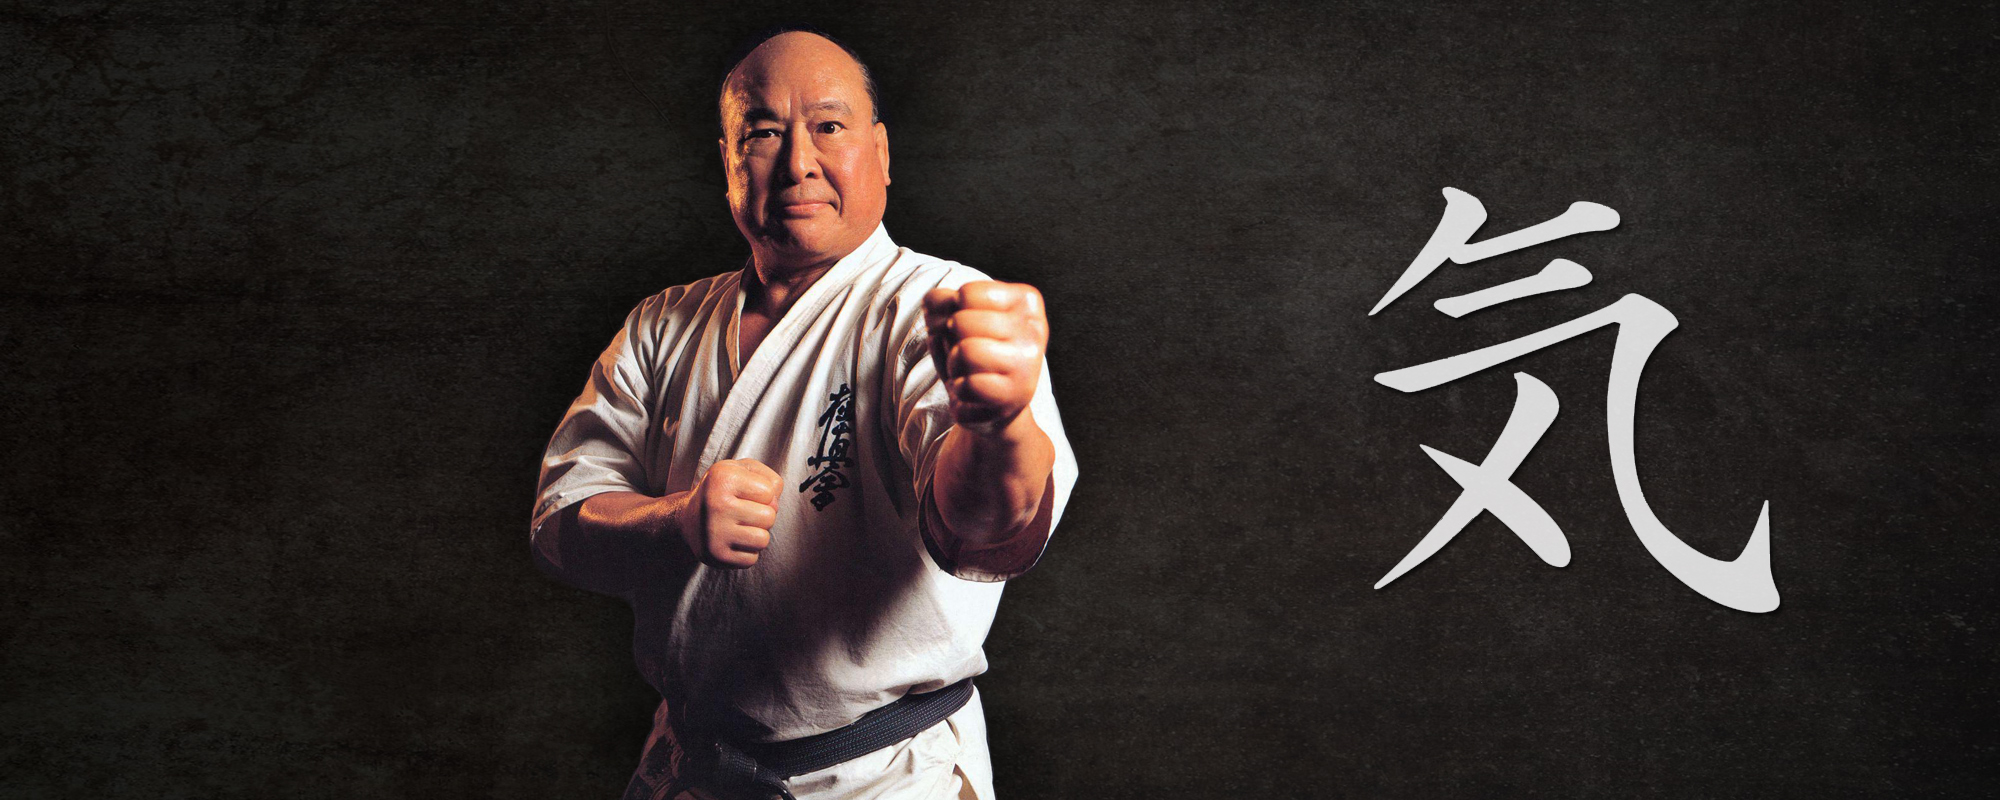
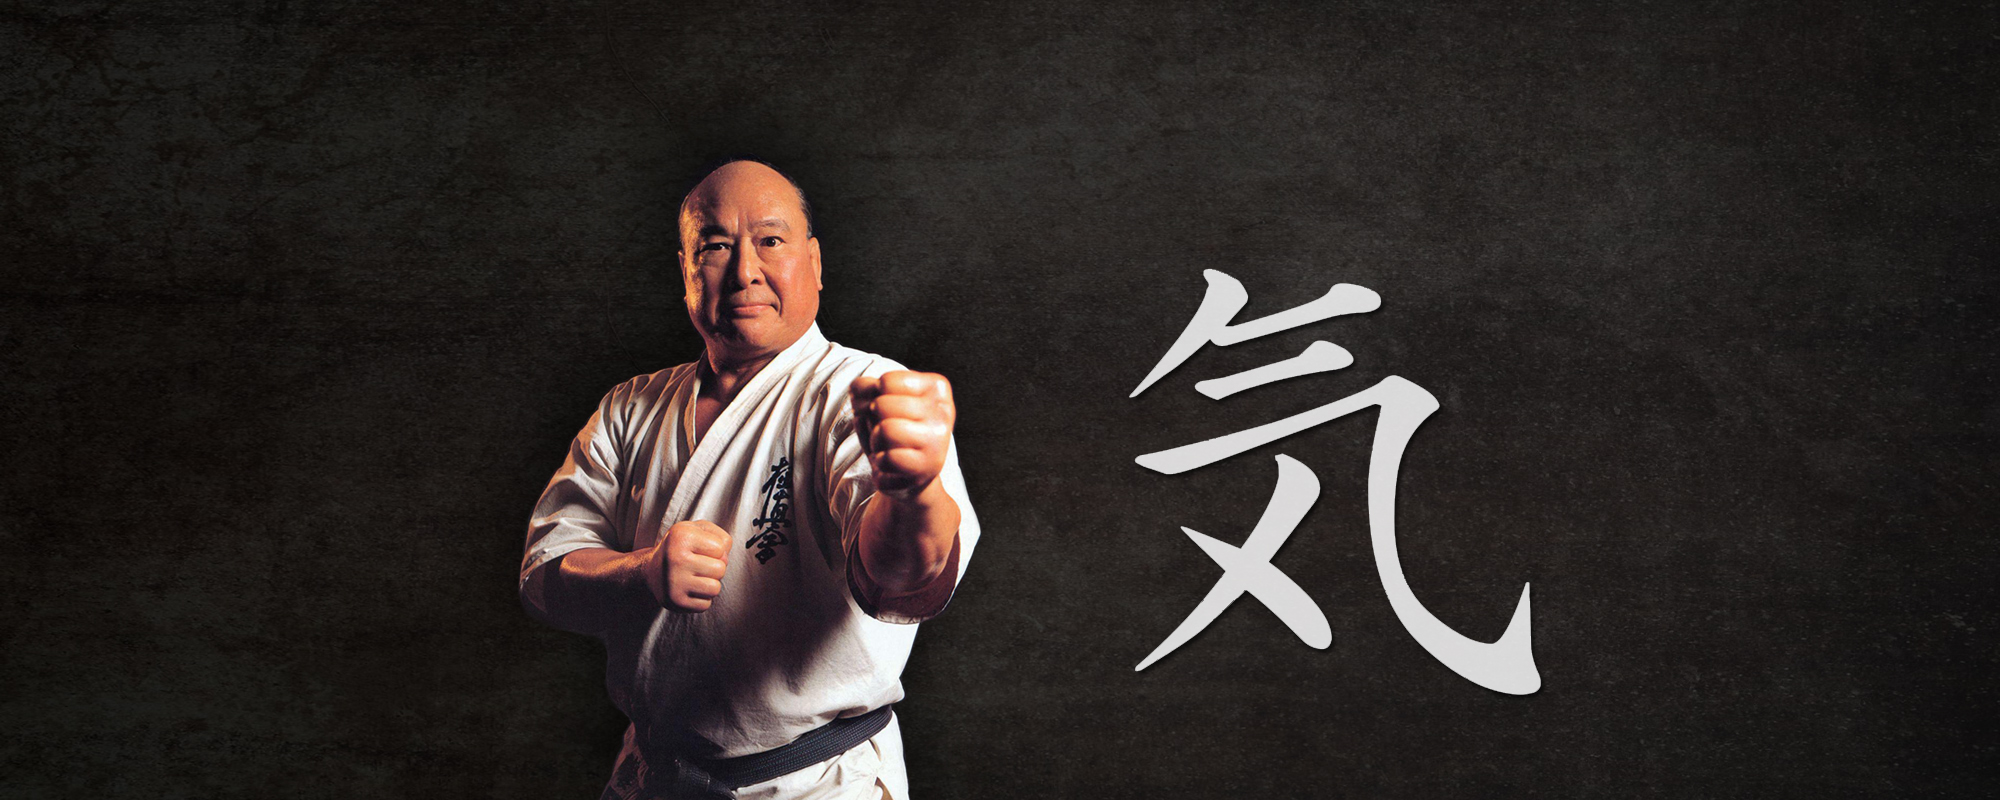
kleine stijlveranderingen

Changed region(s): [[0.248, 0.0312, 0.899, 1.0]]

diff --git a/static/styles/style_middle.css b/static/styles/style_middle.css
@@ -78,7 +78,7 @@ body {
 .h5 {
     color: #DBDBDB;
     font-size:35px;
-    font-weight: 200;
+    font-weight: 300;
     font-family: "Lato", sans-serif;
     text-align:center;
 }
@@ -179,7 +179,7 @@ body {
     position:relative;
     padding: 5px 10px 15px;
     background: rgba(0, 0, 0, 0.6);
-    top:275px;
+    top:230px;
     margin:0 auto;
 }
 
@@ -187,7 +187,7 @@ body {
     position:relative;
     padding: 4px 10px 12px;
     background: rgba(0, 0, 0, 0.6);
-    top:300px;
+    top:250px;
     margin:0 auto;
 }
 
@@ -239,7 +239,7 @@ body {
 #november-banner{background-image:url(../layout/trainingskalender/november-banner.jpg);}
 #december-banner{background-image:url(../layout/trainingskalender/december-banner.jpg);}
 
-#geschiedenis-bovenbanner{background-image:url(../layout/karatedo_kanji.jpg);}
+#geschiedenis-bovenbanner{background-image:url(../layout/karatedo_kanji2.jpg);}
 #geschiedenis-tussenbanner{background-image:url(../layout/oyama_sosai2.jpg);}
 #geschiedenis-box1{background-image:url(../layout/bodhi-01.jpg);}
 #geschiedenis-box2{background-image:url(../layout/karate.jpg);}
@@ -780,8 +780,8 @@ body {
     text-align: center;
 	font-size:17px;
     font-family: "Lato", sans-serif;
-    height:40px;
-    line-height:40px;
+    height:30px;
+    line-height:30px;
 }
 
 .trainingsuren-box {
@@ -803,7 +803,7 @@ body {
 }
 
 .trainingsuren-uur {
-    height:40px;
+    height:30px;
     color: #222222;
     text-align: center;
 	font-size:18px;
@@ -830,10 +830,10 @@ body {
     border-top: solid 1px;
 }
 
-.trainingsuren-geen-training1 {height: 40px}
-.trainingsuren-geen-training2 {height: 20px}
-.trainingsuren-geen-training3 {height: 40px}
-.trainingsuren-geen-training3 {height: 320px}
+.trainingsuren-geen-training1 {height: 30px}
+.trainingsuren-geen-training2 {height: 15px}
+.trainingsuren-geen-training3 {height: 30px}
+.trainingsuren-geen-training3 {height: 240px}
 
 .trainingsuren-training {
     color: #222222;
@@ -849,24 +849,24 @@ body {
     cursor:pointer;
 }
 .trainingsuren-training-vrijdag1 {
-    height: 40px;
+    height: 30px;
     background-color: #ff3333;
-    line-height:15px;
+    line-height:12px;
 }
 .trainingsuren-training-vrijdag2 {
-    height: 60px;
+    height: 45px;
     background-color: forestgreen;
-    line-height:20px;
+    line-height:16px;
 }
 .trainingsuren-training-zaterdag1 {
-    height: 40px;
+    height: 30px;
     background-color: #ff3333;
-    line-height:15px;
+    line-height:12px;
 }
 .trainingsuren-training-zaterdag2 {
-    height: 60px;
+    height: 45px;
     background-color: forestgreen;
-    line-height:20px;
+    line-height:16px;
 }
 
 /*----------- Opmaak nieuws -----------*/
@@ -1041,19 +1041,19 @@ body {
 }
 
 .kalender-cel1 {
-    width: 130px;
+    width: 160px;
     text-transform: uppercase;
     letter-spacing: 2px;
 }
 .kalender-cel2 {
-    width:90px;
+    width:115px;
     letter-spacing:2px;
 }
 .kalender-cel3 {
-    width:130px;
+    width:180px;
     letter-spacing:2px;
 }
-.kalender-cel4 {width:350px;}
+.kalender-cel4 {width:235px;}
 
 /*----------- Algemene Opmaak - Footer -----------*/
 

diff --git a/static/styles/style_mobile.css b/static/styles/style_mobile.css
@@ -179,7 +179,7 @@ body {
     position:relative;
     padding: 10px 15px 20px;
     background: rgba(0, 0, 0, 0.6);
-    top:120px;
+    top:150px;
     margin:0 auto;
 }
 
@@ -187,7 +187,7 @@ body {
     position:relative;
     padding:5px 0 8px;
     background: rgba(0, 0, 0, 0.6);
-    top:200px;
+    top:160px;
     margin:0 auto;
 }
 
@@ -243,7 +243,7 @@ body {
 #geschiedenis-box6{background-image:url(../layout/kanji2.jpg);}
 #geschiedenis-onderbanner{background-image:url(../layout/hokusai_hanging_bridge.jpg);}
 
-#spirit-bovenbanner {background-image:url(../layout/sosai-banner.jpg);}
+#spirit-bovenbanner {background-image:url(../layout/sosai-banner2.jpg);}
 #spirit-tussenbanner {background-image:url(../layout/spirit-tussenbanner.jpg);}
 #spirit-onderbanner {background-image:url(../layout/golven.jpg);}
 
@@ -756,8 +756,8 @@ body {
     text-align: center;
 	font-size:14px;
     font-family: "Lato", sans-serif;
-    height:40px;
-    line-height:40px;
+    height:30px;
+    line-height:30px;
 }
 
 .trainingsuren-box {
@@ -780,7 +780,7 @@ body {
 }
 
 .trainingsuren-uur {
-    height:40px;
+    height:30px;
     color: #222222;
     text-align: center;
 	font-size:14px;
@@ -807,10 +807,10 @@ body {
     border-top: solid 1px;
 }
 
-.trainingsuren-geen-training1 {height: 40px}
-.trainingsuren-geen-training2 {height: 20px}
-.trainingsuren-geen-training3 {height: 40px}
-.trainingsuren-geen-training3 {height: 320px}
+.trainingsuren-geen-training1 {height: 30px}
+.trainingsuren-geen-training2 {height: 15px}
+.trainingsuren-geen-training3 {height: 30px}
+.trainingsuren-geen-training3 {height: 240px}
 
 .trainingsuren-training {
     color: #222222;
@@ -826,24 +826,24 @@ body {
     cursor:pointer;
 }
 .trainingsuren-training-vrijdag1 {
-    height: 40px;
+    height: 30px;
     background-color: #ff3333;
-    line-height:15px;
+    line-height:11px;
 }
 .trainingsuren-training-vrijdag2 {
-    height: 60px;
+    height: 45px;
     background-color: forestgreen;
-    line-height:20px;
-}
-.trainingsuren-training-zaterdag1 {
-    height: 40px;
-    background-color: #ff3333;
     line-height:15px;
 }
+.trainingsuren-training-zaterdag1 {
+    height: 30px;
+    background-color: #ff3333;
+    line-height:11px;
+}
 .trainingsuren-training-zaterdag2 {
-    height: 60px;
+    height: 45px;
     background-color: forestgreen;
-    line-height:20px;
+    line-height:15px;
 }
 
 /*----------- Opmaak nieuws -----------*/

diff --git a/static/styles/style_desktop.css b/static/styles/style_desktop.css
@@ -249,7 +249,7 @@ body {
 #november-banner{background-image:url(../layout/trainingskalender/november-banner.jpg);}
 #december-banner{background-image:url(../layout/trainingskalender/december-banner.jpg);}
 
-#geschiedenis-bovenbanner{background-image:url(../layout/karatedo_kanji.jpg);}
+#geschiedenis-bovenbanner{background-image:url(../layout/karatedo_kanji2.jpg);}
 #geschiedenis-tussenbanner{background-image:url(../layout/oyama_sosai2.jpg);}
 #geschiedenis-box1{background-image:url(../layout/bodhi-01.jpg);}
 #geschiedenis-box2{background-image:url(../layout/karate.jpg);}
